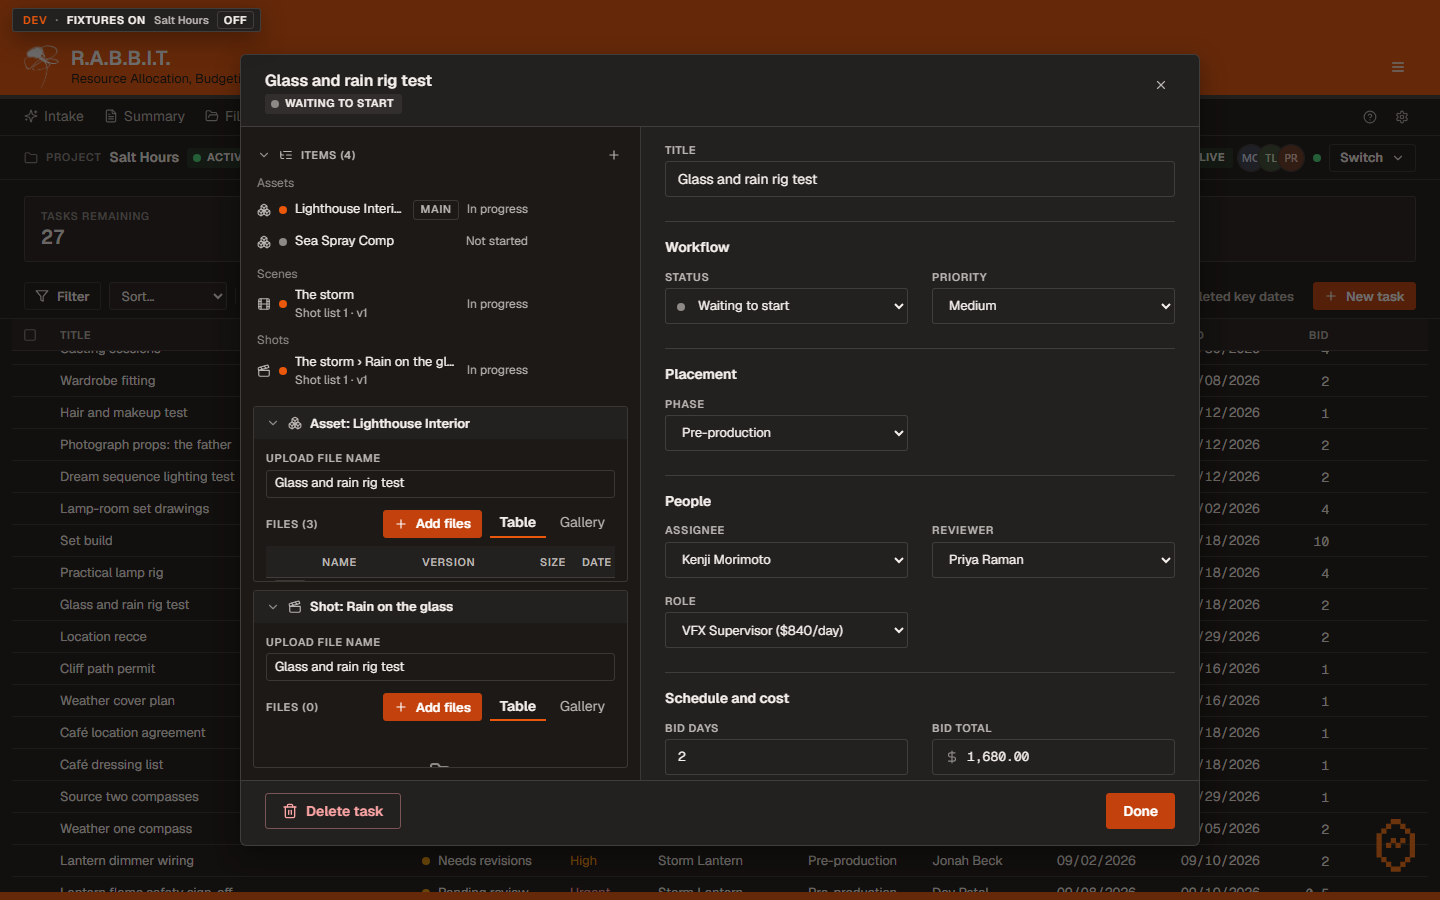
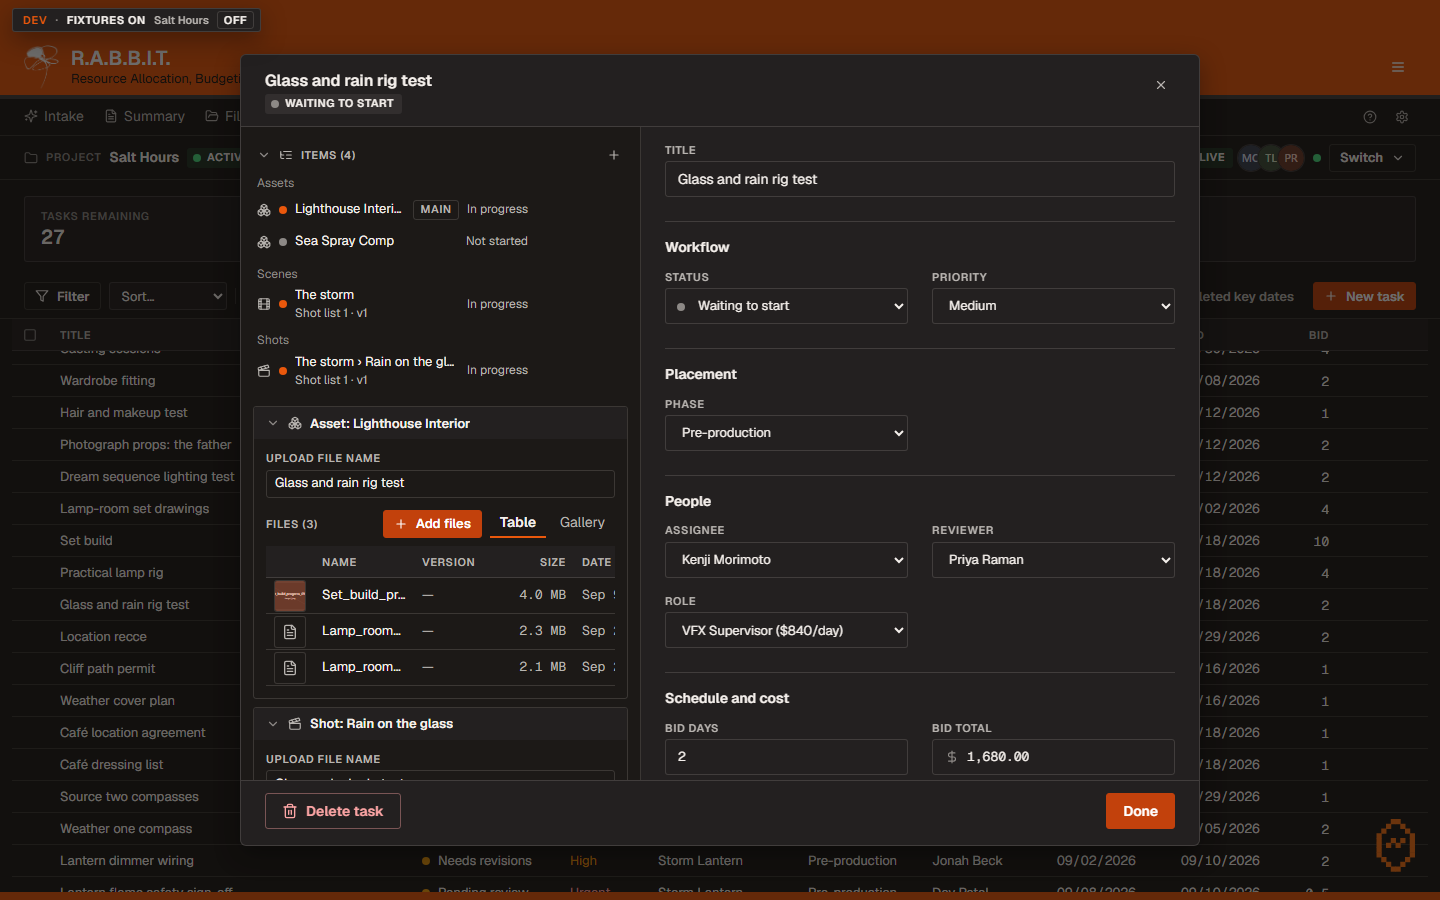
fix(rabbit): the task window's left column scrolls and its parts keep their height, so the files are no longer crushed under the Items table at 1280x700; the pictures retaken (FX2)

diff --git a/WILSON/src/tools/rabbit_v0.1.0/views/rabbitTasksCss.test.js b/WILSON/src/tools/rabbit_v0.1.0/views/rabbitTasksCss.test.js
@@ -340,3 +340,14 @@ describe('V2: a template\'s "Global" is a value on the second ink', () => {
     expect(mgr).not.toMatch(/className="rb-task-none">Global</)
   })
 })
+
+// FX2: the task window's Items table sits above the files in the left column.
+// A section's own `overflow: hidden` lets a flex item shrink to nothing, so at
+// 1280x700 the files were crushed under the table (measured in the pictures):
+// every part keeps its height and the column scrolls.
+describe('FX2: the task window\'s left column scrolls; its parts never shrink', () => {
+  it('every child of .rb-task-detail-files keeps its height, and the column scrolls', () => {
+    expect(normal(sheet)).toMatch(/\.rb-task-detail-files > \* \{ flex-shrink: 0; \}/)
+    expect(normal(sheet)).toMatch(/\.rb-task-detail-files \{[^}]*overflow-y: auto;/)
+  })
+})

diff --git a/WILSON/src/tools/rabbit_v0.1.0/views/rabbitTasks.css b/WILSON/src/tools/rabbit_v0.1.0/views/rabbitTasks.css
@@ -620,6 +620,11 @@
      the column's own content scrolls under it; the files column fills it. */
   .rb-task-detail-side { position: relative; display: flex; flex: 0 0 400px; min-width: 0; min-height: 0; }
   .rb-task-detail-side > .rb-task-detail-files { flex: 1 1 auto; min-width: 0; }
+  /* FX2: the Items table sits above the files. A section's own overflow
+     (hidden) lets a flex item shrink to nothing, so at 1280x700 the files
+     were crushed under the table: each part keeps its height and the column
+     scrolls. */
+  .rb-task-detail-files > * { flex-shrink: 0; }
   .rb-task-detail-props {
     flex: 1;
     min-width: 0;
